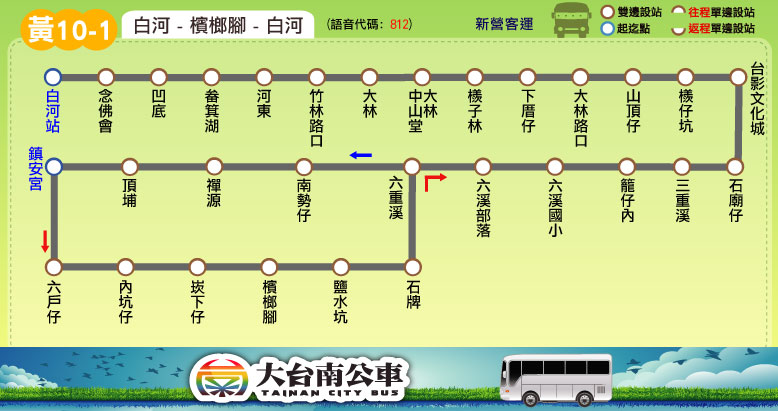
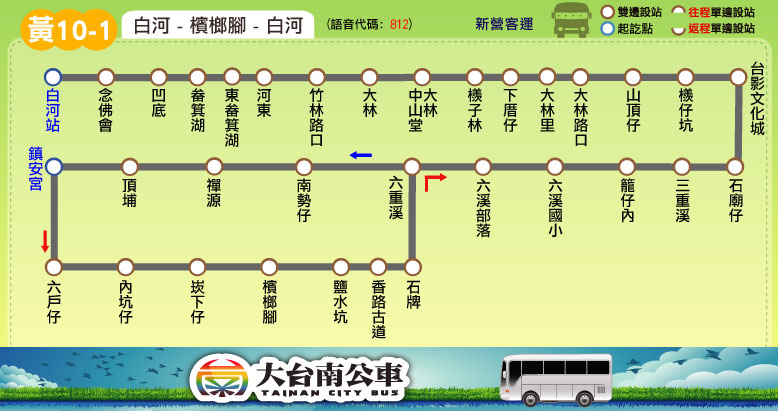
新增站位：黃10(增「白河運動公園」、「東畚箕湖」、「大林里」)、黃10-1(增「東畚箕湖」、「大林里」、「香路古道」)

diff --git a/route/fare_and_time/yellow_10_1.js b/route/fare_and_time/yellow_10_1.js
@@ -1,15 +1,15 @@
 yellow_10_1_interval_name = ["白河","河東","大林","大林<br />路口","檨仔坑","石廟仔","籠仔內","六重溪","鎮安宮","檳榔腳"];
 yellow_10_1_interval_stop = [ // 2017.06.13 checked
-["白河站","念佛會"], // 白河
-["凹底","畚箕湖","河東"], // 河東
-["竹林路口","大林","大林中山堂","檨子林","下厝仔"], // 大林
+["白河站","念佛會","凹底","畚箕湖","東畚箕湖"], // 白河
+["河東"], // 河東
+["竹林路口","大林","大林中山堂","檨子林","下厝仔","大林里"], // 大林
 ["大林路口","山頂仔"], // 大林路口
 ["檨仔坑","台影文化城"], // 檨仔坑
 ["石廟仔"], // 石廟仔
 ["三重溪","籠仔內"], // 籠仔內
-["六溪國小","六溪部落","六重溪","石牌","鹽水坑","南勢仔","禪源","頂埔"], // 六重溪
-["鎮安宮","六戶仔","內坑仔","崁下仔"], // 鎮安宮
-["檳榔腳"] // 檳榔腳
+["六溪國小","六溪部落","六重溪"], // 六重溪
+["南勢仔","禪源","頂埔","鎮安宮"], // 鎮安宮
+["六戶仔","內坑仔","崁下仔","檳榔腳","鹽水坑","香路古道","石牌"] // 檳榔腳
 ];
 yellow_10_1_fare = [
 [26],

diff --git a/route/fare_and_time/yellow_10.js b/route/fare_and_time/yellow_10.js
@@ -5,9 +5,9 @@ yellow_10_interval_stop = [ // 2018.08.01 checked
 ["大路墘"], // 大路墘
 ["嘉民里","東上茄苳","顯濟宮","永安國小"], // 顯濟宮
 ["土溝里","後壁竹子腳","下庄仔"], // 土溝里
-["白河區圖書館","白河商工","舊地政","白河國中","白河分局","中山、中興路口","白河站","念佛會"], // 白河
-["凹底","畚箕湖","河東","河東國小"], // 河東
-["竹林路口","大林","大林中山堂","檨子林","下厝仔"], // 大林
+["白河區圖書館","白河運動公園","白河商工","舊地政","白河國中","白河分局","中山、中興路口","白河站","念佛會"], // 白河
+["凹底","畚箕湖","東畚箕湖","河東","河東國小"], // 河東
+["竹林路口","大林","大林中山堂","檨子林","下厝仔","大林里"], // 大林
 ["大林路口","山頂仔"], // 大林路口
 ["檨仔坑"], // 檨仔坑
 ["台影文化城","石廟仔"], // 石廟仔
